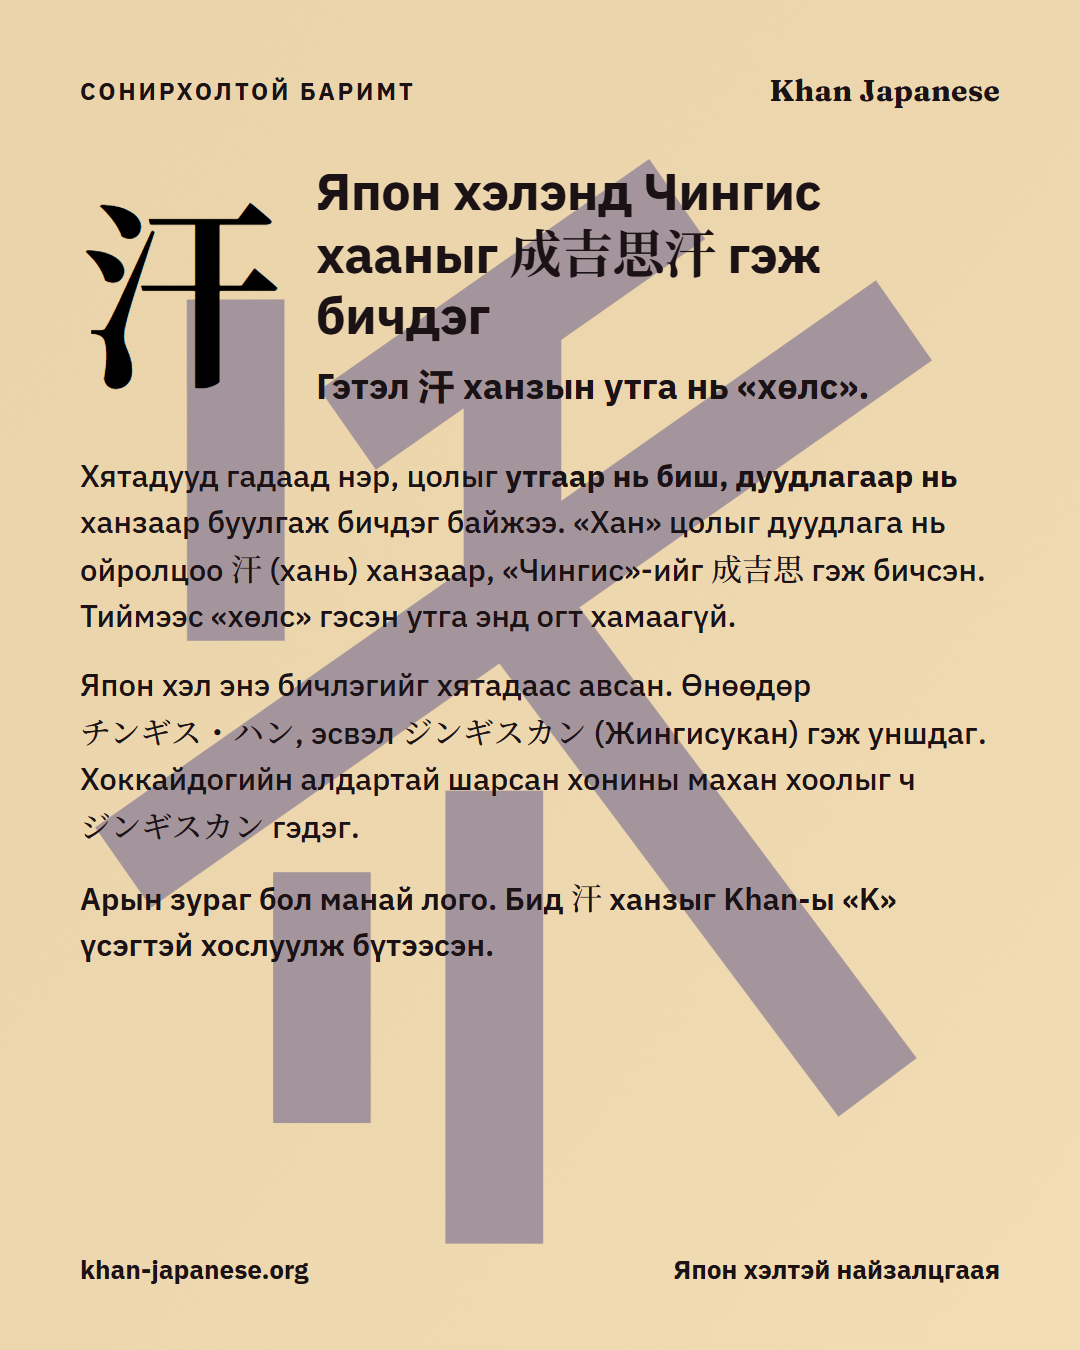
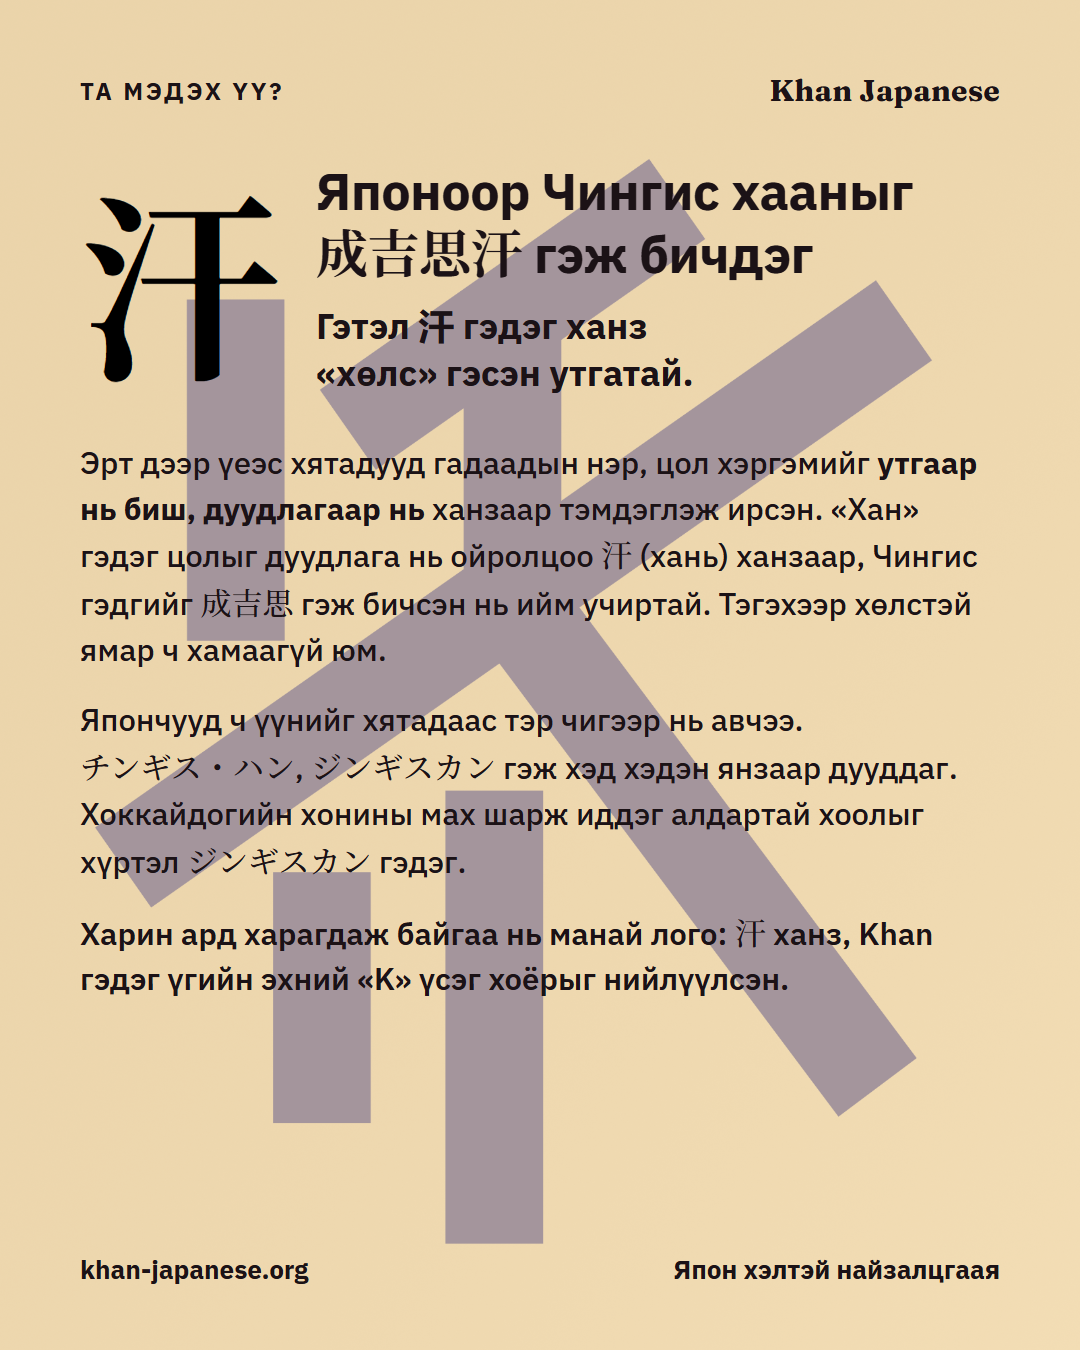
Fact post: Mongolian that reads as Mongolian, not translated
The user asked for the 汗 fact image and its caption to sound more natural.
What changed and why:

- "ханзын утга нь «хөлс»" -> "ханз «хөлс» гэсэн утгатай" (English "its meaning is")
- "Япон хэлэнд" -> "Японоор"; the eyebrow is "ТА МЭДЭХ ҮҮ?", the usual hook
- "дуудлагаар нь ханзаар буулгаж бичдэг" -> "... ханзаар тэмдэглэж ирсэн"
  (double -аар, and "since long ago" is also more accurate than a pure past:
  Chinese still transcribes foreign names by sound)
- "«Чингис»-ийг" -> "Чингис гэдгийг"; "Тиймээс ... утга энд огт хамаагүй" ->
  "Тэгэхээр хөлстэй ямар ч хамаагүй юм"
- "Япон хэл энэ бичлэгийг ... авсан" -> "Япончууд ч үүнийг ... тэр чигээр нь
  авчээ" (a language doesn't "take" things; бичлэг also means a recording)
- "... гэж уншдаг" -> "гэж хэд хэдэн янзаар дууддаг" (both カン and ハン forms
  are in use, so one fixed reading was also overstated)
- "шарсан хонины махан хоол" -> "хонины мах шарж иддэг алдартай хоол"
- "Арын зураг бол манай лого. Бид ... Khan-ы «K» үсэгтэй хослуулж" ->
  "Харин ард харагдаж байгаа нь манай лого: 汗 ханз, Khan гэдэг үгийн эхний
  «K» үсэг хоёрыг нийлүүлсэн"

The subheading is balanced so "утгатай." no longer sits alone on a line.

diff --git a/_marketing/facebook/make-fact-han.js b/_marketing/facebook/make-fact-han.js
@@ -41,7 +41,7 @@ const html = `<!doctype html><html lang="mn"><head><meta charset="utf-8">
   .kanji{font-family:${JP};font-weight:700;font-size:200px;line-height:1;color:#000}
   .hero h1{font-size:52px;line-height:1.16;font-weight:700;letter-spacing:-0.01em}
   .hero h1 .jp{font-family:${JP};font-weight:700}
-  .sweat{margin-top:16px;font-size:36px;font-weight:700}
+  .sweat{margin-top:16px;font-size:36px;font-weight:700;text-wrap:balance}
   .body{margin-top:44px;display:flex;flex-direction:column;gap:24px;font-size:31px;line-height:1.48;font-weight:500}
   /* a Japanese word must not break mid-word (チンギス・ / ハン) */
   .body .jp{font-family:${JP};font-weight:500;white-space:nowrap}
@@ -52,18 +52,18 @@ const html = `<!doctype html><html lang="mn"><head><meta charset="utf-8">
 </style></head><body>
 <img class="logo" src="${LOGO}" alt="">
 <div class="page">
-  <div class="top"><span>СОНИРХОЛТОЙ БАРИМТ</span><span class="brand">Khan Japanese</span></div>
+  <div class="top"><span>ТА МЭДЭХ ҮҮ?</span><span class="brand">Khan Japanese</span></div>
   <div class="hero">
     <div class="kanji">汗</div>
     <div>
-      <h1>Япон хэлэнд Чингис хааныг <span class="jp">成吉思汗</span> гэж бичдэг</h1>
-      <div class="sweat">Гэтэл <span class="jp">汗</span> ханзын утга нь «хөлс».</div>
+      <h1>Японоор Чингис хааныг <span class="jp">成吉思汗</span> гэж бичдэг</h1>
+      <div class="sweat">Гэтэл <span class="jp">汗</span> гэдэг ханз «хөлс» гэсэн утгатай.</div>
     </div>
   </div>
   <div class="body">
-    <p>Хятадууд гадаад нэр, цолыг <b>утгаар нь биш, дуудлагаар нь</b> ханзаар буулгаж бичдэг байжээ. «Хан» цолыг дуудлага нь ойролцоо <span class="jp">汗</span> (хань) ханзаар, «Чингис»-ийг <span class="jp">成吉思</span> гэж бичсэн. Тиймээс «хөлс» гэсэн утга энд огт хамаагүй.</p>
-    <p>Япон хэл энэ бичлэгийг хятадаас авсан. Өнөөдөр <span class="jp">チンギス・ハン</span>, эсвэл <span class="jp">ジンギスカン</span> (Жингисукан) гэж уншдаг. Хоккайдогийн алдартай шарсан хонины махан хоолыг ч <span class="jp">ジンギスカン</span> гэдэг.</p>
-    <p class="logo-note">Арын зураг бол манай лого. Бид <span class="jp">汗</span> ханзыг Khan-ы «K» үсэгтэй хослуулж бүтээсэн.</p>
+    <p>Эрт дээр үеэс хятадууд гадаадын нэр, цол хэргэмийг <b>утгаар нь биш, дуудлагаар нь</b> ханзаар тэмдэглэж ирсэн. «Хан» гэдэг цолыг дуудлага нь ойролцоо <span class="jp">汗</span> (хань) ханзаар, Чингис гэдгийг <span class="jp">成吉思</span> гэж бичсэн нь ийм учиртай. Тэгэхээр хөлстэй ямар ч хамаагүй юм.</p>
+    <p>Япончууд ч үүнийг хятадаас тэр чигээр нь авчээ. <span class="jp">チンギス・ハン</span>, <span class="jp">ジンギスカン</span> гэж хэд хэдэн янзаар дууддаг. Хоккайдогийн хонины мах шарж иддэг алдартай хоолыг хүртэл <span class="jp">ジンギスカン</span> гэдэг.</p>
+    <p class="logo-note">Харин ард харагдаж байгаа нь манай лого: <span class="jp">汗</span> ханз, Khan гэдэг үгийн эхний «K» үсэг хоёрыг нийлүүлсэн.</p>
   </div>
   <div class="foot"><span>khan-japanese.org</span><span>Япон хэлтэй найзалцгаая</span></div>
 </div>

diff --git a/_marketing/facebook/page-text.md b/_marketing/facebook/page-text.md
@@ -72,11 +72,11 @@ https://khan-japanese.org/path.html
 
 Attach **fact-han.png** to this one. It has no link preview to conflict with, so the picture shows.
 
-Чингис хааныг япон хэлэнд 成吉思汗 гэж бичдэг. Гэтэл 汗 ханзын утга нь «хөлс» 😅
+Та мэдэх үү? Японоор Чингис хааныг 成吉思汗 гэж бичдэг. Гэтэл 汗 гэдэг ханз «хөлс» гэсэн утгатай 😅
 
-Хятадууд гадаад нэр, цолыг утгаар нь биш, дуудлагаар нь ханзаар буулгаж бичдэг байжээ. «Хан» цолыг дуудлага нь ойролцоо 汗 ханзаар бичсэн болохоор «хөлс» гэсэн утга энд огт хамаагүй.
+Эрт дээр үеэс хятадууд гадаадын нэр, цол хэргэмийг утгаар нь биш, дуудлагаар нь ханзаар тэмдэглэж ирсэн. «Хан» гэдэг цолыг 汗 гэж бичсэн нь ийм учиртай. Тэгэхээр хөлстэй ямар ч хамаагүй юм.
 
-Манай Khan Japanese-ийн лого ч энэ 汗 ханзыг Khan-ы «K» үсэгтэй хослуулж бүтээсэн.
+Манай лого ч гэсэн 汗 ханз, Khan гэдэг үгийн эхний «K» үсэг хоёрыг нийлүүлж хийсэн.
 
 https://khan-japanese.org
 
